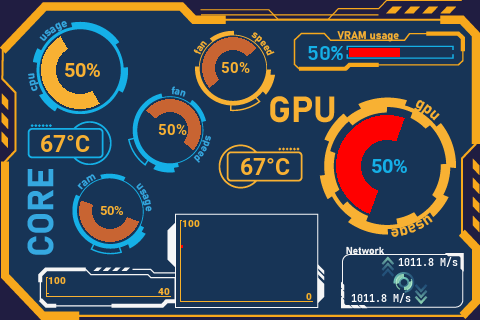
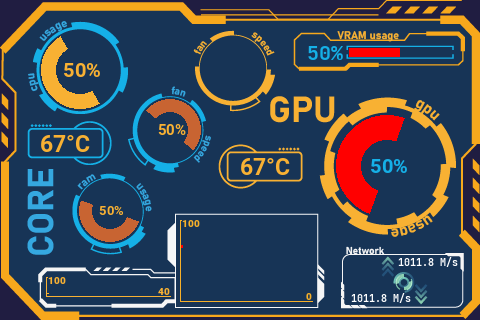
Update configuration and theme for GPU fan monitoring support

diff --git a/library/sensors/sensors_custom.py b/library/sensors/sensors_custom.py
@@ -26,6 +26,7 @@ import math
 import platform
 from abc import ABC, abstractmethod
 from typing import List
+import subprocess
 
 
 # Custom data classes must be implemented in this file, inherit the CustomDataSource and implement its 2 methods
@@ -99,3 +100,34 @@ class ExampleCustomTextOnlyData(CustomDataSource):
     def last_values(self) -> List[float]:
         # If a custom data class only has text values, it won't be possible to display line graph
         pass
+
+
+class GPUFAN(CustomDataSource):
+    last_val = [math.nan] * 10
+    value = 0.0
+
+    def as_numeric(self) -> float:
+        # Este valor (0 a 100) es el que el programa usa para rellenar el anillo radial
+        try:
+            resultado = subprocess.run(
+                ["nvidia-smi", "--query-gpu=fan.speed", "--format=csv,noheader,nounits"],
+                capture_output=True,
+                text=True,
+                timeout=2.0  # Evita bloqueos si la GPU tarda en responder
+            )
+            self.value = float(resultado.stdout.strip())
+        except Exception:
+            pass
+
+        self.last_val.append(self.value)
+        self.last_val.pop(0)
+
+        return self.value
+
+    def as_string(self) -> str:
+        # Cambiamos >5.1f (un decimal) por >4.0f (cero decimales)
+        return f'{self.value:>4.0f}%'
+
+    def last_values(self) -> List[float]:
+        # Para el radial esto no es estrictamente necesario, pero lo mantenemos por compatibilidad
+        return self.last_val
